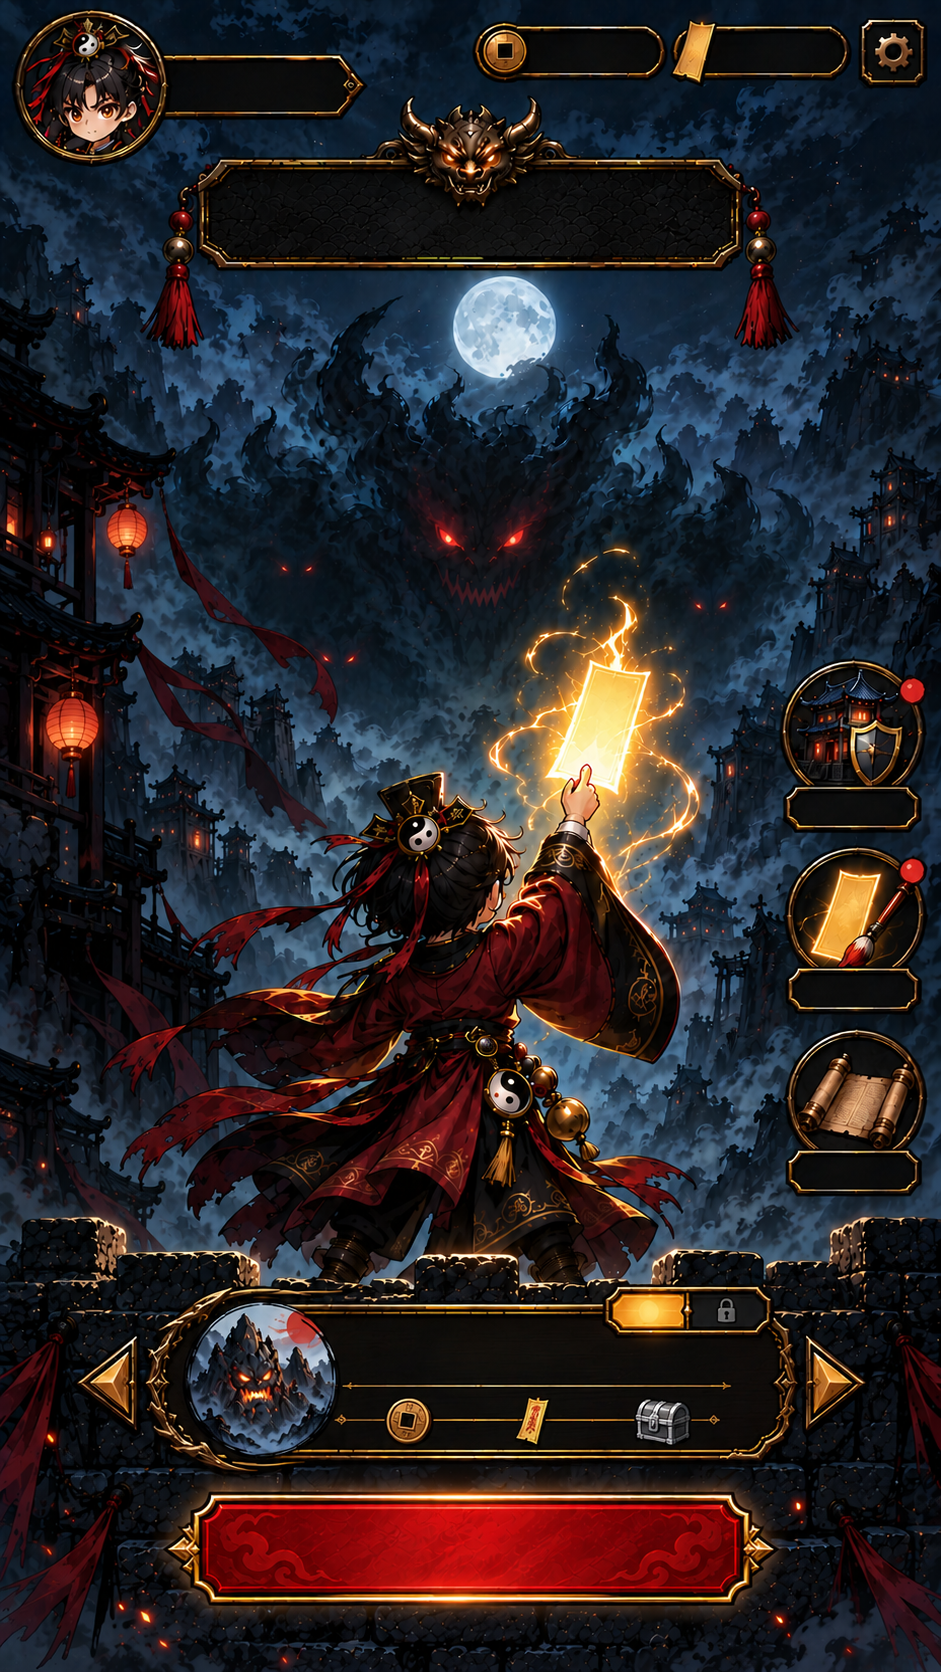
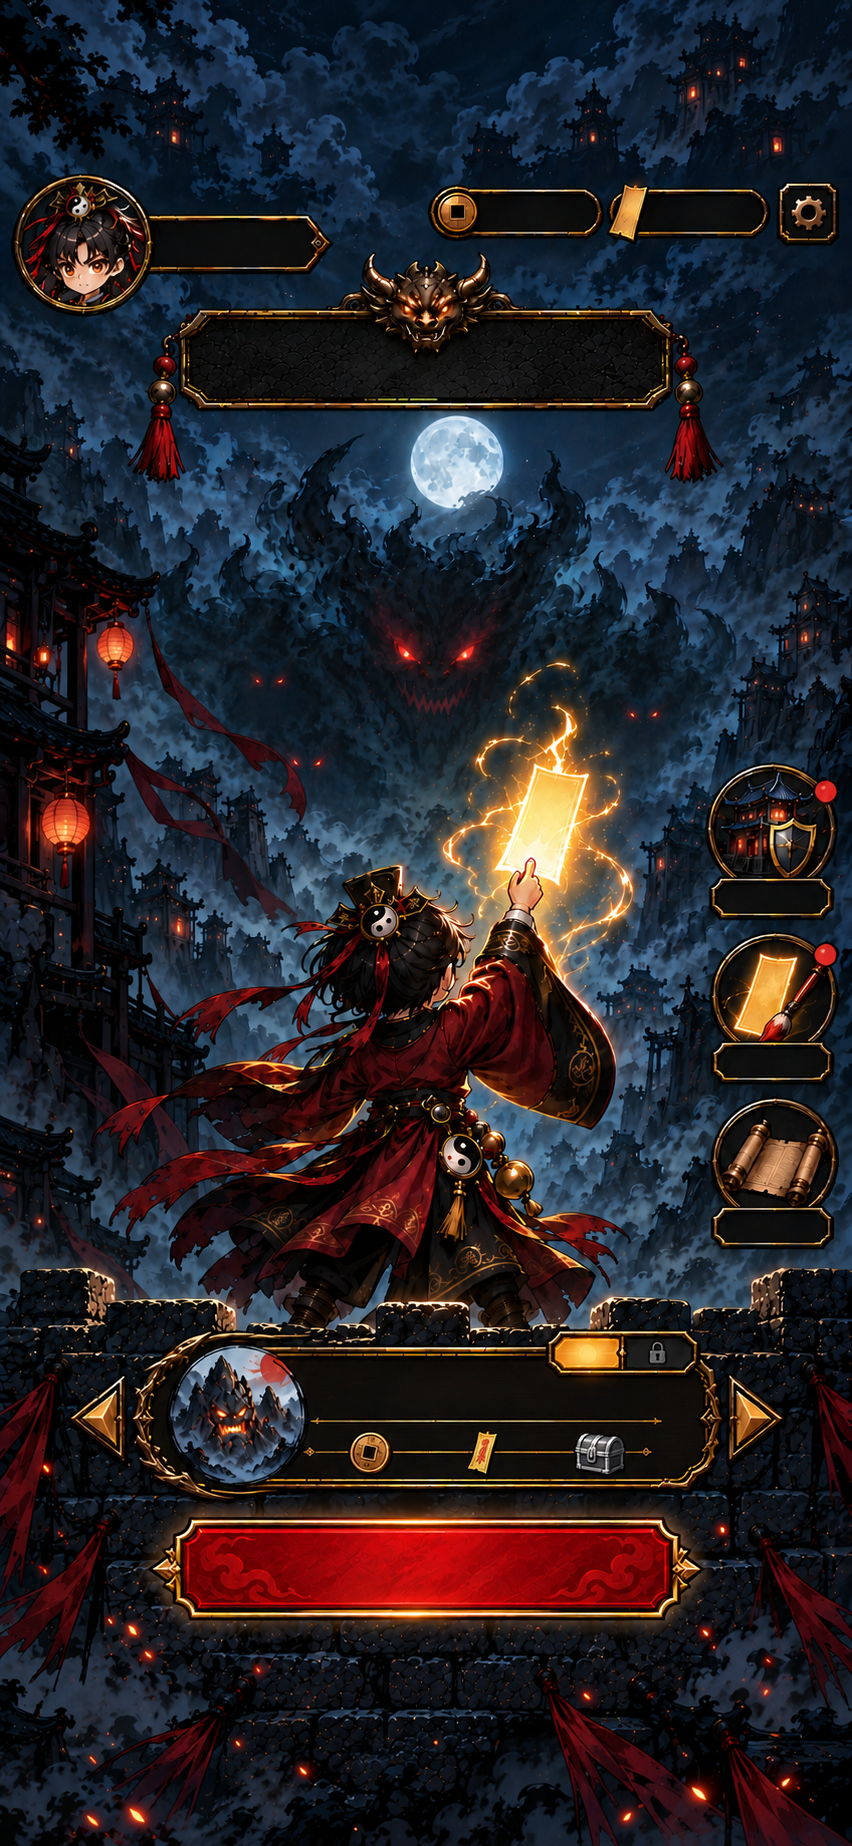
fix: 主界面底图换成 v12 上下外扩到 9:19.5 的版本（852×1846），高屏不再留边；坐标仍按 v12 原图写、代码里统一换算 (hold push)

diff --git a/assets/scripts/game/HomeUI.ts b/assets/scripts/game/HomeUI.ts
@@ -14,7 +14,11 @@ import {
 import { popIn } from './Anim';
 
 /** 底图原始尺寸，以及图上各元素的中心位置（像素，左上为原点） */
-const IMG = { w: 941, h: 1672 };
+// 底图是 v12 上下外扩到 9:19.5 的版本（852×1846）。POS 仍按 v12 原图（941×1672）的像素写，
+// 换算：先加上外扩的顶部高度 183，再整体缩放 852/941
+const IMG = { w: 852, h: 1846 };
+const SRC_K = 852 / 941;
+const SRC_TOP = 183;
 const POS = {
     progress: [262, 86], coin: [592, 52], paper: [775, 52], gear: [887, 52],
     title: [470, 215],
@@ -48,8 +52,15 @@ export class HomeUI {
     constructor(private root: Node, private audio?: AudioManager) {}
 
     /** 图上坐标 → 节点坐标（底图等比铺满屏幕、居中） */
+    /** v12 原图里的 1 像素对应屏幕上多少（尺寸都按 v12 原图写） */
+    private get u(): number {
+        return this.s * SRC_K;
+    }
+
     private at(p: readonly number[]): [number, number] {
-        return [(p[0] - IMG.w / 2) * this.s, (IMG.h / 2 - p[1]) * this.s];
+        const x = p[0] * SRC_K;
+        const y = (p[1] + SRC_TOP) * SRC_K;
+        return [(x - IMG.w / 2) * this.s, (IMG.h / 2 - y) * this.s];
     }
 
     /** 当前停在第几关（重排时保持不变） */
@@ -60,7 +71,7 @@ export class HomeUI {
     show(p: Profile, levels: LevelDef[], startLevel: number, act: HomeActions): void {
         this.hide();
         this.level = startLevel;
-        // 按宽度铺满：按钮画在底图里，左右不能裁，否则头像和右侧入口会被切掉
+        // 按宽度铺满：按钮画在底图里，左右不能裁；底图已是 9:19.5，矮一些的屏幕只裁掉上下多画的天空和城墙
         this.s = GAME.width / IMG.w;
         const root = makeNode('home', this.root, GAME.width, GAME.height);
         this.node = root;
@@ -128,7 +139,7 @@ export class HomeUI {
             return l;
         };
         const hit = (pos: readonly number[], w: number, h: number, cb: () => void, sound = true): Node => {
-            const n = makeNode('hit', dyn, w * this.s, h * this.s);
+            const n = makeNode('hit', dyn, w * this.u, h * this.u);
             n.setPosition(...this.at(pos));
             n.on(Node.EventType.TOUCH_END, (e: EventTouch) => {
                 e.propagationStopped = true;
@@ -170,7 +181,7 @@ export class HomeUI {
                 g.fillColor = hex('#DC2D23');
                 g.circle(0, 0, 9);
                 g.fill();
-                dot.setPosition(x + 46 * this.s, y + 46 * this.s);
+                dot.setPosition(x + 46 * this.u, y + 46 * this.u);
             }
         });
 
@@ -188,7 +199,7 @@ export class HomeUI {
             const g = ring.addComponent(Graphics);
             g.lineWidth = 3;
             g.strokeColor = hex('#C23A2A');
-            g.roundRect(-310 * this.s, -78 * this.s, 620 * this.s, 156 * this.s, 12);
+            g.roundRect(-310 * this.u, -78 * this.u, 620 * this.u, 156 * this.u, 12);
             g.stroke();
         }
         const arrow = (pos: readonly number[], enabled: boolean, delta: number) => {
@@ -200,7 +211,7 @@ export class HomeUI {
             }, enabled);
             if (!enabled) {
                 // 到头的箭头压暗
-                const mask = rectNode('arrowMask', 60 * this.s, 70 * this.s, '#05070C', n, 0, 170);
+                const mask = rectNode('arrowMask', 60 * this.u, 70 * this.u, '#05070C', n, 0, 170);
                 mask.setPosition(0, 0);
             }
         };
@@ -216,7 +227,7 @@ export class HomeUI {
             else this.showToast('通关上一关后解锁');
         });
         if (!playable) {
-            const mask = rectNode('fightMask', 580 * this.s, 96 * this.s, '#05070C', fight, 10, 150);
+            const mask = rectNode('fightMask', 580 * this.u, 96 * this.u, '#05070C', fight, 10, 150);
             mask.setPosition(0, 0);
             fightLabel.node.setSiblingIndex(dyn.children.length - 1);
         } else {
@@ -230,7 +241,7 @@ export class HomeUI {
             const enabled = d === 'normal' ? open : hardOpen;
             const [px, py] = this.at(pos);
             const bg = on ? (d === 'hard' ? '#7A1F18' : '#8A6A2A') : '#141218';
-            const n = rectNode('pill', 76 * this.s, 34 * this.s, bg, dyn, 6, 245);
+            const n = rectNode('pill', 76 * this.u, 34 * this.u, bg, dyn, 6, 245);
             n.setPosition(px, py);
             addLabel(n, enabled ? text : `${text}·锁`, 17, enabled ? (on ? '#FFF2C8' : CREAM) : DIM);
             n.on(Node.EventType.TOUCH_END, (e: EventTouch) => {
